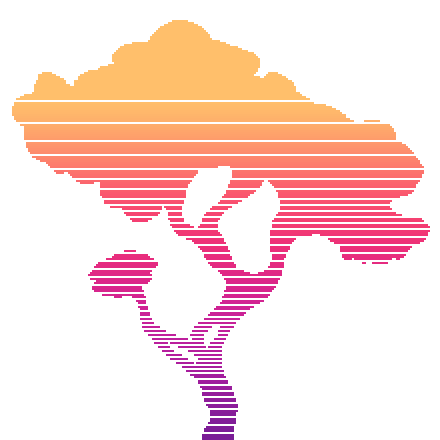
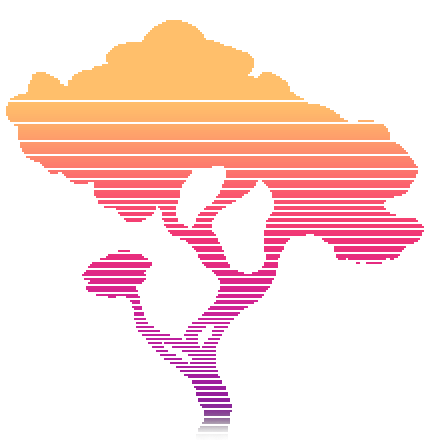
Big tree

diff --git a/Tiles/CyberWorld/HologramPlinthBigTree.cs b/Tiles/CyberWorld/HologramPlinthBigTree.cs
@@ -11,6 +11,8 @@ using ReLogic.Content;
 using Terraria.Localization;
 using StarsAbove.Utilities;
 using StarsAbove.Items.Placeable.CyberWorld;
+using Terraria.GameContent.Drawing;
+using Steamworks;
 
 namespace StarsAbove.Tiles.CyberWorld
 {
@@ -118,10 +120,37 @@ namespace StarsAbove.Tiles.CyberWorld
 			{
 				Main.instance.TilesRenderer.AddSpecialLegacyPoint(i, j);
 			}
+            if (Main.gamePaused || !Main.instance.IsActive || Lighting.UpdateEveryFrame && !Main.rand.NextBool(4))
+            {
+                return;
+            }
 
-			
+            Tile tile = Main.tile[i, j];
 
-		}
+            if (!TileDrawing.IsVisible(tile))
+            {
+                return;
+            }
+
+			if(Main.rand.NextBool(60))
+			{
+                int dustType = DustID.GemTopaz;
+
+				var gore = Gore.NewGorePerfect(Main.LocalPlayer.GetSource_Misc(""),
+					new Vector2(i * 16 - 220 + Main.rand.Next(0, 400), j * 16 - 302 + Main.rand.Next(0, 100)),
+					new Vector2(-0.1f - Main.rand.NextFloat(0, 4f), 0.2f + Main.rand.NextFloat(0, 4f)),
+                   GoreID.TreeLeaf_VanityTreeSakura
+                    , 1f);
+				gore.light = 1f;
+				
+            }
+
+            for (int k = 0; k < 2; k++)
+            {
+                
+            }
+
+        }
 
 		public override void SpecialDraw(int i, int j, SpriteBatch spriteBatch)
 		{
@@ -157,7 +186,7 @@ namespace StarsAbove.Tiles.CyberWorld
 			// Some math magic to make it smoothly move up and down over time
 			const float TwoPi = (float)Math.PI * 2f;
 			float offset = (float)Math.Sin(Main.GlobalTimeWrappedHourly * TwoPi / 5f);
-			Vector2 drawPos = worldPos + offScreen - Main.screenPosition + new Vector2(0f, -285f) + new Vector2(0f, offset * 4f);
+			Vector2 drawPos = worldPos + offScreen - Main.screenPosition + new Vector2(4f, -275f) + new Vector2(0f, offset * 4f);
 
 			// Draw the main texture
 			spriteBatch.Draw(texture, drawPos, frame, color, 0f, origin, 1f, effects, 0f);

diff --git a/Gores/NeonVeilLeaves.cs b/Gores/NeonVeilLeaves.cs
@@ -1,0 +1,22 @@
+using Microsoft.Xna.Framework;
+using Terraria;
+using Terraria.DataStructures;
+using Terraria.ModLoader;
+
+namespace StarsAbove.Gores
+{/*
+    public class NeonVeilLeaves : ModGore
+    {
+        public override void SetStaticDefaults()
+        {
+            
+            base.SetStaticDefaults();
+        }
+        public override void OnSpawn(Gore gore, IEntitySource source)
+        {
+
+
+            base.OnSpawn(gore, source);
+        }
+    }*/
+}
